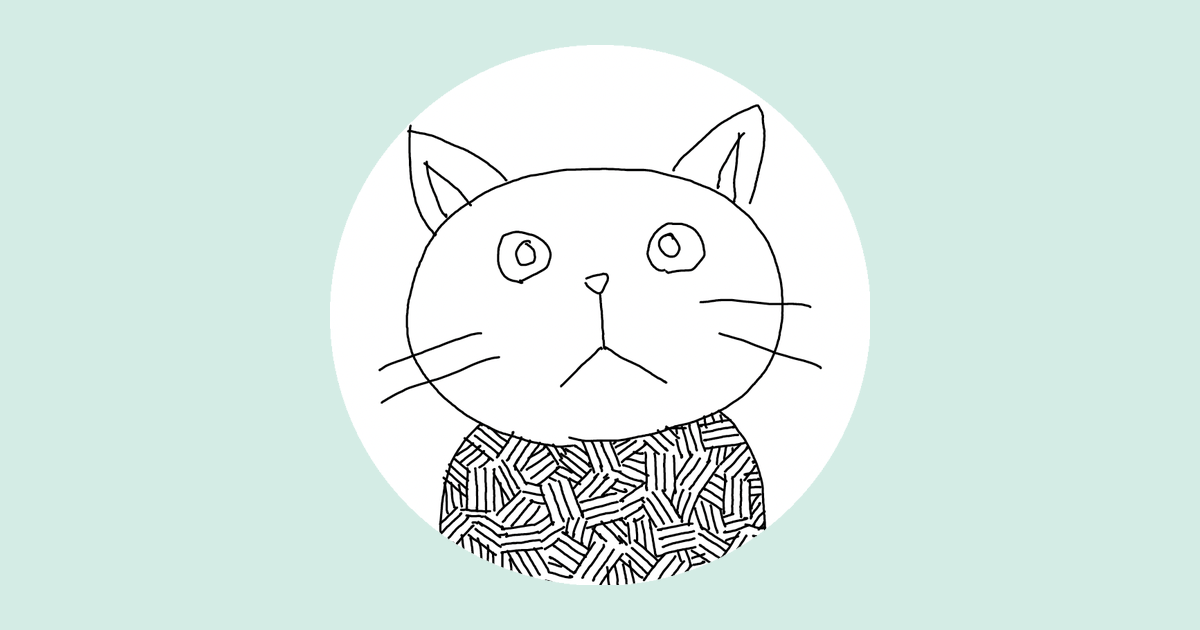
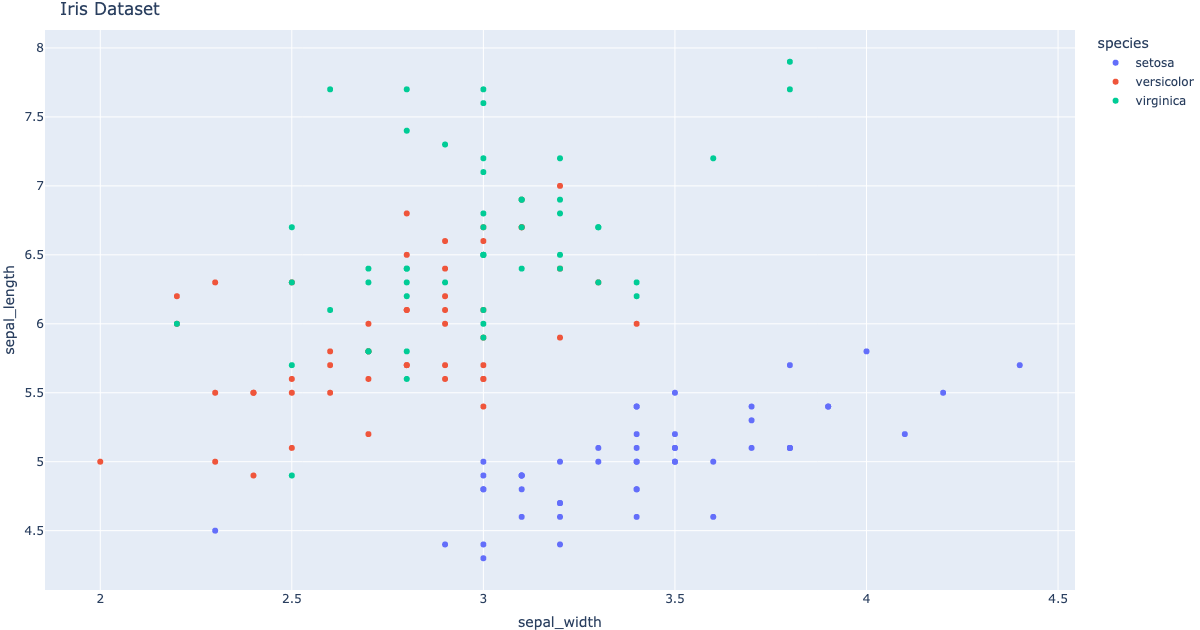
Support chart-based OG images and undraft hello-quarto
- Add kaleido==0.2.1 to requirements.txt for Plotly write_image
- Add has_chart_og() to generate_og.py to skip cat icon when
  og-source: chart is set and og-image.png already exists
- Undraft hello-quarto post with chart OG via fig.write_image
- Document chart vs default OG image patterns in README

diff --git a/scripts/generate_og.py b/scripts/generate_og.py
@@ -84,6 +84,15 @@ def generate_og(circle_icon: Image.Image, slug: str, output_path: Path) -> None:
     print(f"  {output_path.relative_to(output_path.parent.parent)} -> RGB{bg_color}")
 
 
+def has_chart_og(qmd_path: Path) -> bool:
+    """Check if the post declares a chart-based OG image via og-source: chart."""
+    text = qmd_path.read_text()
+    match = re.match(r"^---\n(.*?\n)---\n", text, re.DOTALL)
+    if not match:
+        return False
+    return bool(re.search(r"^og-source:\s*chart\s*$", match.group(1), re.MULTILINE))
+
+
 def main() -> None:
     if not ICON_PATH.exists():
         print(f"Error: icon not found at {ICON_PATH}")
@@ -108,8 +117,14 @@ def main() -> None:
     for post_dir in post_dirs:
         slug = post_dir.name
         output = post_dir / "og-image.png"
-        generate_og(circle_icon, slug, output)
-        ensure_image_frontmatter(post_dir / "index.qmd")
+        qmd_path = post_dir / "index.qmd"
+
+        if has_chart_og(qmd_path) and output.exists():
+            print(f"  {slug}: skipped (chart-based OG exists)")
+        else:
+            generate_og(circle_icon, slug, output)
+
+        ensure_image_frontmatter(qmd_path)
 
     print("Done.")
 

diff --git a/README.md b/README.md
@@ -37,7 +37,18 @@ The `pre-render` hook automatically runs `scripts/generate_og.py`, which generat
 1. Create `posts/YYYY-MM-topic/index.qmd`
 2. Run `quarto render` or `quarto preview`
 
-OG images and front matter are handled automatically — no manual steps needed.
+#### OG image options
+
+**Option A: Use a chart as the OG image**
+
+1. Add `og-source: chart` to the front matter
+2. In a hidden cell, call `fig.write_image("og-image.png", width=1200, height=630)`
+3. Run `quarto render`
+
+**Option B: Default (cat icon + pastel background)**
+
+1. Write the post
+2. Run `quarto render` — the OG image is generated automatically
 
 ### Deploy
 
